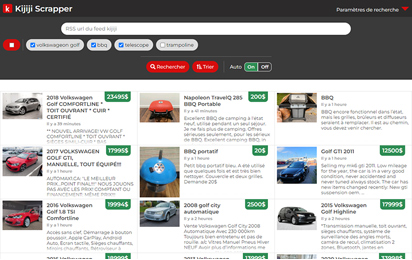
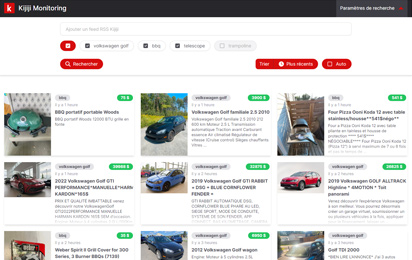
update profolio pour le refactor en react de mon projet kijiji monitoring

diff --git a/js/data.js b/js/data.js
@@ -36,7 +36,7 @@ const projects = {
     'Studios MELS': {
         'type': 'pro',
         'text': [
-            'Site web corporatif des Studios MELS développé sous Wordpress.',
+            'Site web corporatif des Studios MELS.',
             'Reconnue mondialement pour ses studios de tournage et sa main d\'œuvre hautement qualifiée, MELS est l\'une des plus grandes entreprises de services de cinéma et de télévision au Canada. Elle propose un service clé en main, du scénario à la livraison.'
         ],
         'links': {
@@ -59,7 +59,7 @@ const projects = {
     'Groupe TVA': {
         'type': 'pro',
         'text': [
-            'Site web corporatif du Groupe TVA développé sous Drupal.',
+            'Site web corporatif du Groupe TVA.',
             'Groupe TVA est une entreprise québécoise active dans les domaines de la télévision, du film et des magazines. Elle est une propriété de Québecor Média. Les principaux actifs de l\'entreprise incluent le réseau TVA ainsi que six de ses dix stations régionales et des chaînes spécialisées.'
         ],
         'links': {
@@ -77,7 +77,30 @@ const projects = {
             },
             'mobile': './images/previews/groupetva/groupetva_mobile.jpg'
         },
-        'stack': ['Drupal']
+        'stack': ['Symfony', 'Twig', 'BEM']
+    },
+    'Agrégateur d\'annonces Kijiji': {
+        'type': 'perso',
+        'text': [
+            'Application qui récupère différents flux RSS provenant de Kijiji avec option de fetch automatique.',
+            'Cet app permet de suivre en temps réel les nouvelles annonces affichées selon des catégories choisies.'
+        ],
+        'links': {
+            'demo': 'https://tobilobilo.github.io/kijiji-monitoring/#/profil/demo',
+            'github': 'https://github.com/tobilobilo/kijiji-monitoring'
+        },
+        'imgs': {
+            'preview': {
+                'small': './images/previews/scrapper/scrapper_bg.jpg',
+                'large': './images/previews/scrapper/scrapper_bg__lg.jpg'
+            },
+            'desktop': {
+                'small': './images/previews/scrapper/scrapper_desktop.jpg',
+                'large': './images/previews/scrapper/scrapper_desktop__lg.jpg'
+            },
+            'mobile': './images/previews/scrapper/scrapper_mobile.jpg'
+        },
+        'stack': ['React', 'Typescript', 'TailwindCSS', 'Zustand']
     },
     'Mes Idées Recettes': {
         'type': 'perso',
@@ -100,7 +123,7 @@ const projects = {
             },
             'mobile': './images/previews/ideesrecettes/ideesrecettes_mobile.png'
         },
-        'stack': ['React', 'Tailwind CSS', 'Redux Toolkit']
+        'stack': ['React', 'TailwindCSS', 'ReduxToolkit']
     },
     'Mastermind': {
         'type': 'perso',
@@ -147,29 +170,6 @@ const projects = {
             'mobile': './images/previews/bingo/bingo_mobile.png'
         },
         'stack': ['Vue.js', 'Bootstrap']
-    },
-    'Agrégateur d\'annonces Kijiji': {
-        'type': 'perso',
-        'text': [
-            'Application qui récupère différents flux RSS provenant de Kijiji et les affiches automatiques aux 30 secondes.',
-            'C\'est un projet que j\'ai développé, il y a plusieurs années et dont je me sers encore fréquemment pour trouver des objets de seconde main ou de collection.'
-        ],
-        'links': {
-            'demo': 'http://mads.epizy.com/?p=demo',
-            'github': 'https://github.com/tobilobilo/kijiji-scrapper'
-        },
-        'imgs': {
-            'preview': {
-                'small': './images/previews/scrapper/scrapper_bg.png',
-                'large': './images/previews/scrapper/scrapper_bg__lg.png'
-            },
-            'desktop': {
-                'small': './images/previews/scrapper/scrapper_desktop.jpg',
-                'large': './images/previews/scrapper/scrapper_desktop__lg.jpg'
-            },
-            'mobile': './images/previews/scrapper/scrapper_mobile.jpg'
-        },
-        'stack': ['jQuery', 'PHP']
     },
     'Tic Tac Toe': {
         'type': 'perso',

diff --git a/css/style.css b/css/style.css
@@ -569,7 +569,7 @@ html[data-theme="dark"] [data-element="switch"] .switch i[data-element="theme-da
             display: flex;
             flex-wrap: wrap;
             flex-direction: row;
-            gap: 0 1.25rem;
+            gap: 0 .75rem;
             padding: 0;
             align-items: center;
             list-style: none;
